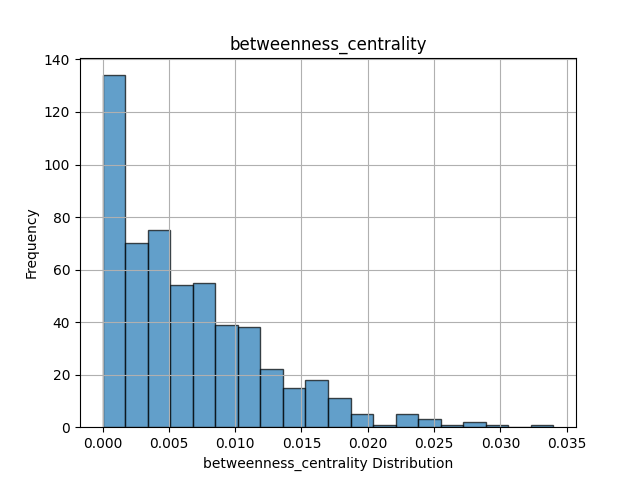
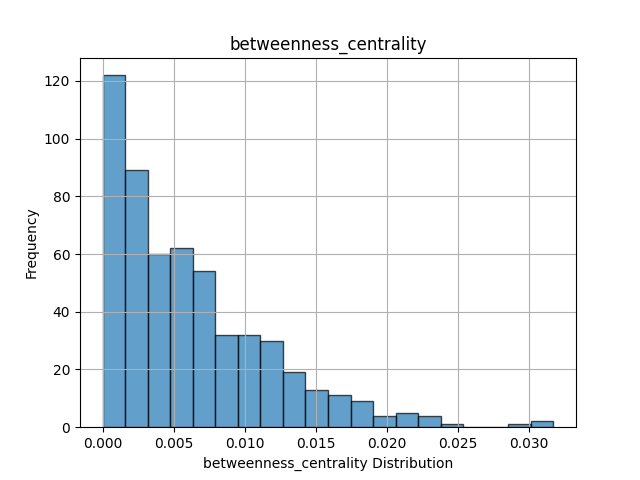
--added non_random_simulations

diff --git a/non_random_simulations.py b/non_random_simulations.py
@@ -1,0 +1,26 @@
+from utils import *
+
+G = load_network('data/disease_network.gpickle')
+
+"""## Generating a preferential attachment version of the network
+BA with same Density
+Calculate an m value, m = density * N/2, such that the density of BA will be the same of the disease network
+"""
+graph_density = nx.density(G)
+
+# generate a preferential attachment version of G with the same number of nodes and density
+pref = nx.barabasi_albert_graph(G.number_of_nodes(), int(graph_density * G.number_of_nodes() / 2))
+
+print_metrics(pref, "Preferential Attachment Graph")
+print_centralities(pref)
+plot_centralities(pref, "BA_simulation")
+draw_network(pref)
+
+## Hidden Parameter Model with same Degree Exponent
+
+hidden_param_net = hidden_parameter_network(G.number_of_nodes(), sum(dict(G.degree()).values()) / G.number_of_nodes(), omega=find_degree_exponent(G))
+
+print_metrics(hidden_param_net, "Hidden Parameter Network")
+print_centralities(hidden_param_net)
+plot_centralities(hidden_param_net, "Hidden-Parameter_simulation")
+draw_network(hidden_param_net)

diff --git a/utils.py b/utils.py
@@ -81,7 +81,7 @@ def print_metrics(network, network_name="Disease Network"):
     print("--------------------------")
 
 def plot_centralities(network, title):
-    if not os.path.exists(title):
+    if not os.path.exists(f'plots/{title}'):
         os.makedirs(f'plots/{title}')
     plot_centrality(network, nx.degree_centrality, title)
     plot_centrality(network, nx.betweenness_centrality, title)

diff --git a/random_simulations.py b/random_simulations.py
@@ -12,8 +12,6 @@ We tried generating an ER network with same density as the Disease Network.
 We calculate a p value, p = 2m / (n(n-1))^2, such that using this p value would results in a same density ER network
 """
 
-graph_density = nx.density(G)
-
 # get p for ER such that the graph has the same density as the original graph
 # p = 2m / (n(n-1))^2
 
